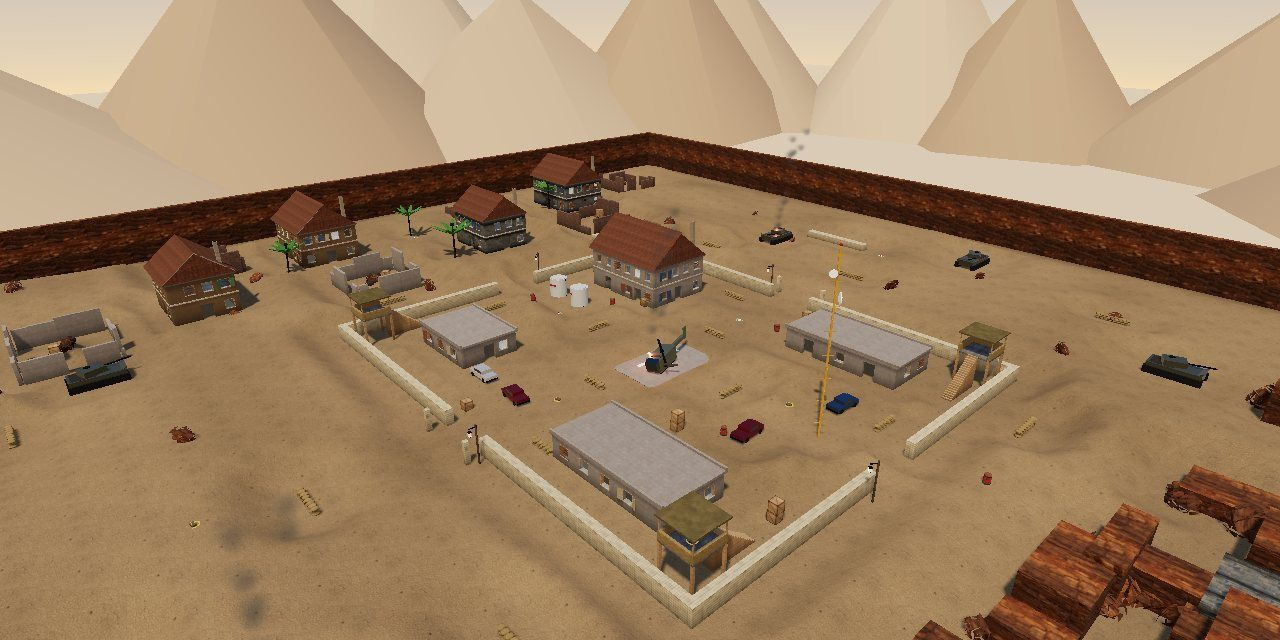
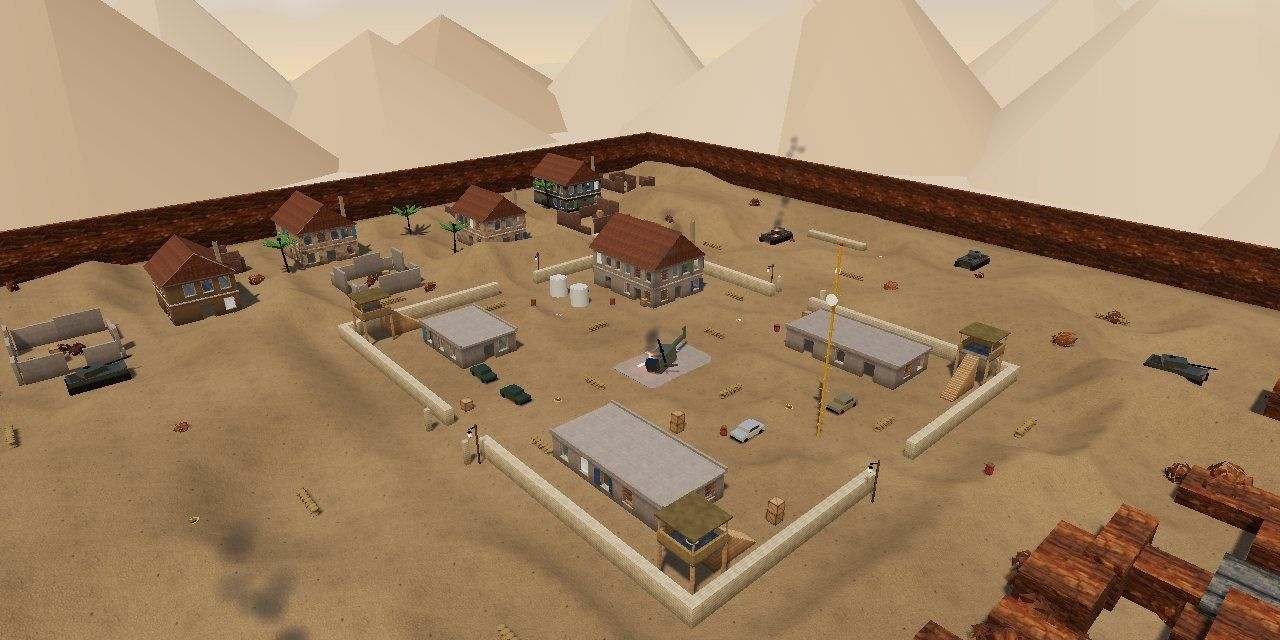
Bigger hills, gentler fall damage, wider stairs, stand-through windows, slower sprint
- Hill height up ~60-70% on every map with longer ramps near buildings
- Fall damage starts ~3.2 m; 7 m costs ~48, ~15 m is lethal (was 118 at 7 m)
- Stairs widened (Bazaar 1.3 -> 1.7 m, houses 1.5 -> 1.8 m, barn 1.9 m)
- Windows 1.95 m tall x 1.5 m: vault through standing
- Sprint 8.6 -> 7.8 m/s
- Bots wander only where they can get back from; nav allows roof hops to 7 m
- Map postcards re-shot for the new terrain

Claude-Session: https://claude.ai/code/session_016tiaBKXEoAVGUpszsHYEEG

diff --git a/fps/game.js b/fps/game.js
@@ -1136,7 +1136,7 @@ function wallZ2(L, z0, z1, x, th, y0, h, ops, m) {
   }
   if (cur < z1) L.box(x - th / 2, y0, cur, x + th / 2, y0 + h, z1, m);
 }
-const D2 = c => ({ c, w: 1.8, y0: 0, y1: 2.5 }), W2 = c => ({ c, w: 1.4, y0: 0.95, y1: 2.4 }); // windows: 1.45 m tall, sill at hip height, so you can vault through crouched
+const D2 = c => ({ c, w: 1.8, y0: 0, y1: 2.5 }), W2 = c => ({ c, w: 1.5, y0: 0.8, y1: 2.75 }); // windows: 1.95 m tall, sill at hip height: vault straight through standing
 // a real window in a wall opening: wooden frame + a fill chosen from the position (same on every client)
 function winOpening(L, ax, a, b, c, th, y0, y1, o) {
   if (o.open || y1 - y0 < 0.5) return;
@@ -1148,7 +1148,7 @@ function winOpening(L, ax, a, b, c, th, y0, y1, o) {
 }
 // two-storey house: doors {n,s,e,w: [centers]}, interior stair along the north wall, upper-floor windows on every side, pitched roof
 function house2(L, x0, z0, w, d, o = {}) {
-  const fh = 3.4, th = 0.4, x1 = x0 + w, z1 = z0 + d, m = o.m || 'tudor', run = clamp(w - 3.4, 3.8, 5.6), sw = 1.5;
+  const fh = 3.4, th = 0.4, x1 = x0 + w, z1 = z0 + d, m = o.m || 'tudor', run = clamp(w - 3.4, 3.8, 5.6), sw = 1.8;
   const dr = o.doors || {}, wn = (a, b) => { const r = []; for (let c = a + 1.6; c < b - 1.2; c += 2.6) r.push(W2(c)); return r; };
   const stx0 = x0 + th + 1.1 - 0.9, stx1 = x0 + th + 1.1 + run + 0.9; // no ground-floor window on the north wall where the stair runs behind it
   const gOps = (side, a, b) => (dr[side] || []).map(D2).concat(o.gwin === false ? [] : wn(a, b).filter(wo => !(dr[side] || []).some(dc => Math.abs(dc - wo.c) < 2) && !(side === 'n' && wo.c > stx0 && wo.c < stx1)));
@@ -1191,7 +1191,7 @@ function stairTower(L, x0, z0, s, m) {
 
 // ---------------------------------------------------------------- MAP 4: MILLBROOK VILLAGE (large, three lanes, river)
 function buildMillbrook(L) {
-  L.hills = 2.6; L.hillScale = 30; L.hillMask = (x, z) => smooth(6, 12, Math.abs(x));
+  L.hills = 4.4; L.hillScale = 34; L.hillRamp = 10; L.hillMask = (x, z) => smooth(6, 12, Math.abs(x));
   L.bounds = [-64, -48, 64, 48]; L.ground = 'grassMud'; L.groundScale = 7; L.grass = 0.9; L.flowers = 2; L.padStyle = 'mushroom'; L.big = true;
   L.groundY = (x, z) => { const a = Math.abs(x); return a < 2.8 ? -0.9 : a < 4.2 ? lerp(-0.9, 0, (a - 2.8) / 1.4) : 0; };
   L.box(-68, -1, -52, -4, 0, 52, 'floor').noRender = true; L.box(4, -1, -52, 68, 0, 52, 'floor').noRender = true;
@@ -1239,7 +1239,7 @@ function buildMillbrook(L) {
   wallZ2(L, bz0 + 0.5, bz0 + bd - 0.5, bx0 + 0.25, 0.5, 0, bh, [{ c: bz0 + bd / 2, w: 4.5, y0: 0, y1: 4.2 }, { c: bz0 + bd / 2, w: 2, y0: 5.4, y1: 7.2 }], 'planks');
   wallZ2(L, bz0 + 0.5, bz0 + bd - 0.5, bx0 + bw - 0.25, 0.5, 0, bh, [{ c: bz0 + bd / 2, w: 4.5, y0: 0, y1: 4.2 }], 'planks');
   L.box(bx0 + 0.5, 4.2, bz0 + 0.5, bx0 + 7, 4.45, bz0 + bd - 0.5, 'planks');               // hayloft (west half)
-  L.stairs(bx0 + 12.5, bz0 + 1.4, 'nx', 1.6, 0, 4.45, 5.5, 'planks');
+  L.stairs(bx0 + 12.5, bz0 + 1.5, 'nx', 1.9, 0, 4.45, 5.5, 'planks');
   L.box(bx0 + 7.0, 4.45, bz0 + 2.4, bx0 + 7.1, 5.4, bz0 + bd - 0.5, 'planks', { col: false });
   L.box(bx0 - 0.3, bh, bz0 - 0.3, bx0 + bw + 0.3, bh + 0.2, bz0 + bd + 0.3, 'roof');
   L.prop('gable', bx0 + bw / 2, bh + 0.2, bz0 + bd / 2, 1, { w: bw + 0.6, d: bd + 0.6, h: 5.5, oh: 0.4, axis: 'x', mat: 'tiles' });
@@ -1281,7 +1281,7 @@ function doorway(L, x0, x1, z, gap0, gap1, h = 5.5, m = 'plasterB', th = 0.7) { 
 function crates(L, x, z, n = 1, big = false) { const s = big ? 1.6 : 1.2; L.B(x, z, s, s, s, 0, 'crate'); if (n > 1) L.B(x + 0.05, z - 0.05, s, s, s, s, 'crate'); }
 function buildOldQuarter(L) {
   L.postcard = { hk: 0.36, dk: 1.15 };
-  L.hills = 1.0; L.hillScale = 18; L.hillFlat = 1.0; L.hillRamp = 5;
+  L.hills = 1.8; L.hillScale = 22; L.hillFlat = 1.0; L.hillRamp = 7.5;
   L.bounds = [-52, -46, 52, 46]; L.ground = 'cobble'; L.groundScale = 3.2; L.groundTint = 0xf0dcbc; L.grass = 0.05; L.big = true; L.padStyle = 'rune';
   L.box(-56, -1, -50, 56, 0, 50, 'floor').noRender = true;
   L.box(-53, 0, -47, 53, 9, -46, 'plasterB'); L.box(-53, 0, 46, 53, 9, 47, 'plasterB'); L.box(-53, 0, -46, -52, 9, 46, 'plasterB'); L.box(52, 0, -46, 53, 9, 46, 'plasterB');
@@ -1392,7 +1392,7 @@ function cityBlock(L, x0, z0, x1, z1, R) {
   if (alleyX && alleyZ) { crates(L, mx, mz + 0.6); L.prop('keg', mx + 0.8, 0, mz - 0.8); }
 }
 function buildCrossroads(L) {
-  L.hills = 1.5; L.hillScale = 24;
+  L.hills = 2.6; L.hillScale = 28; L.hillRamp = 9;
   const R = seeded(1337);
   L.bounds = [-96, -80, 96, 80]; L.ground = 'asphalt'; L.groundScale = 6; L.groundTint = 0xd8d6d0; L.grass = 0; L.big = true; L.padStyle = 'rune'; L.smoke = L.smoke || []; L.noLamps = true;
   L.box(-100, -1, -84, 100, 0, 84, 'floor').noRender = true;
@@ -1449,7 +1449,7 @@ function watchtower(L, cx, cz, dir, y = 4.5) { // stilted tower with sandbag par
   if (dir !== 'nx') L.box(cx - s, y, cz - s, cx - s + e, y + ph, cz + s, 'sandbag'); if (dir !== 'px') L.box(cx + s - e, y, cz - s, cx + s, y + ph, cz + s, 'sandbag');
   L.box(cx - s - 0.2, y + 2.6, cz - s - 0.2, cx + s + 0.2, y + 2.8, cz + s + 0.2, 'canvas', { col: false });
   for (const [dx, dz] of [[-1, -1], [1, -1], [-1, 1], [1, 1]]) L.box(cx + dx * (s - 0.1) - 0.06, y, cz + dz * (s - 0.1) - 0.06, cx + dx * (s - 0.1) + 0.06, y + 2.6, cz + dz * (s - 0.1) + 0.06, 'wood', { col: false });
-  const run = y / 0.34 * 0.45, sw = 1.3;
+  const run = y / 0.34 * 0.45, sw = 1.7;
   if (dir === 'pz') L.stairs(cx, cz + s + run, 'nz', sw, 0, y, run, 'wood');
   else if (dir === 'nz') L.stairs(cx, cz - s - run, 'pz', sw, 0, y, run, 'wood');
   else if (dir === 'px') L.stairs(cx + s + run, cz, 'nx', sw, 0, y, run, 'wood');
@@ -1457,7 +1457,7 @@ function watchtower(L, cx, cz, dir, y = 4.5) { // stilted tower with sandbag par
 }
 function bunker(L, x0, z0, w, d, doors, m = 'concrete') { // single-storey building with interior; doors {n,s,e,w:[centres]}, flat roof
   const h = 3.2, th = 0.4, x1 = x0 + w, z1 = z0 + d, ops = side => (doors[side] || []).map(D2).concat([]);
-  const wins = (a, b, side) => { const r = []; for (let c = a + 2.2; c < b - 1.6; c += 3.6) if (!(doors[side] || []).some(dc => Math.abs(dc - c) < 2.3)) r.push({ c, w: 1.4, y0: 1.0, y1: 2.4 }); return r; };
+  const wins = (a, b, side) => { const r = []; for (let c = a + 2.2; c < b - 1.6; c += 3.6) if (!(doors[side] || []).some(dc => Math.abs(dc - c) < 2.3)) r.push({ c, w: 1.5, y0: 0.85, y1: 2.85 }); return r; };
   wallX2(L, x0, x1, z1 - th / 2, th, 0, h, ops('n').concat(wins(x0, x1, 'n')), m); wallX2(L, x0, x1, z0 + th / 2, th, 0, h, ops('s').concat(wins(x0, x1, 's')), m);
   wallZ2(L, z0 + th, z1 - th, x1 - th / 2, th, 0, h, ops('e').concat(wins(z0, z1, 'e')), m); wallZ2(L, z0 + th, z1 - th, x0 + th / 2, th, 0, h, ops('w').concat(wins(z0, z1, 'w')), m);
   L.box(x0 - 0.25, h, z0 - 0.25, x1 + 0.25, h + 0.3, z1 + 0.25, m);
@@ -1484,7 +1484,7 @@ function warehouse(L, x0, z0, w, d, o = {}) { // big shed: corrugated walls, rol
 // ---------------------------------------------------------------- MAP: FREIGHT YARD (CoD-style container port, medium)
 function buildFreight(L) {
   L.postcard = { sx: -1, sz: 1, hk: 0.14, dk: 0.85 };
-  L.hills = 1.3; L.hillScale = 22;
+  L.hills = 2.1; L.hillScale = 26; L.hillRamp = 9;
   const R = seeded(77);
   L.bounds = [-64, -50, 64, 50]; L.ground = 'asphalt'; L.groundScale = 6; L.groundTint = 0xc8c4bc; L.grass = 0; L.big = true; L.noLamps = true;
   L.box(-68, -1, -54, 68, 0, 54, 'floor').noRender = true;
@@ -1527,7 +1527,7 @@ function buildFreight(L) {
 }
 // ---------------------------------------------------------------- MAP: FIREBASE (Battlefield-style desert outpost, huge)
 function buildFirebase(L) {
-  L.hills = 3.2; L.hillScale = 32;
+  L.hills = 5.5; L.hillScale = 38; L.hillRamp = 11;
   const R = seeded(4242);
   L.bounds = [-100, -90, 100, 90]; L.ground = 'sand'; L.groundScale = 5; L.groundTint = 0xf2e2c4; L.grass = 0; L.big = true; L.noLamps = true; L.smoke = [];
   L.box(-104, -1, -94, 104, 0, 94, 'floor').noRender = true;
@@ -1601,7 +1601,7 @@ function facade(L, R, x0, z0, x1, z1, h, side) {
   if (R() < 0.5) { const c = R() < 0.5 ? a0 + 0.15 : a1 - 0.15; B(c - 0.05, c + 0.05, 0, h, 0, 0.1, 'metal'); } // drainpipe
 }
 function buildBazaar(L) {
-  L.hills = 1.7; L.hillScale = 20; L.hillFlat = 1.0; L.hillRamp = 5;
+  L.hills = 2.7; L.hillScale = 24; L.hillFlat = 1.0; L.hillRamp = 7.5;
   const R = seeded(9001);
   L.bounds = [-70, -54, 70, 54]; L.ground = 'dirtroad'; L.groundScale = 4; L.groundTint = 0xf0e6d8; L.grass = 0; L.big = true; L.noLamps = true; L.smoke = [];
   L.box(-74, -1, -58, 74, 0, 58, 'floor').noRender = true;
@@ -1654,18 +1654,18 @@ function buildBazaar(L) {
   const Hh = (i, j) => (i < 0 || j < 0 || i >= nx || j >= nz ? 0 : H[j * nx + i]);
   for (let j = 0; j < nz; j++) for (let i = 0; i < nx; i++) { // rooftop stairs: climb from a roof onto the next storey up
     const h = Hh(i, j); if (h <= 0 || h > 7 || rstairs >= 34 || R() > 0.45) continue; const [x0, z0, x1, z1] = cellB(i, j), y = h + 0.12;
-    if (Math.abs(Hh(i + 1, j) - h - 3.2) < 0.1) { const nb = L.boxes.length; L.stairs(x0 + 0.3, (z0 + z1) / 2, 'px', 1.3, y, y + 3.2, 3.6, 'concrete'); busy.add(i + ',' + j); rstairs++; rlinks.push([i, j, i + (1), j + (0), L.boxes.slice(nb), L.links[L.links.length - 1]]); }
-    else if (Math.abs(Hh(i, j + 1) - h - 3.2) < 0.1) { const nb = L.boxes.length; L.stairs((x0 + x1) / 2, z0 + 0.3, 'pz', 1.3, y, y + 3.2, 3.6, 'concrete'); busy.add(i + ',' + j); rstairs++; rlinks.push([i, j, i + (0), j + (1), L.boxes.slice(nb), L.links[L.links.length - 1]]); }
-    else if (Math.abs(Hh(i - 1, j) - h - 3.2) < 0.1) { const nb = L.boxes.length; L.stairs(x1 - 0.3, (z0 + z1) / 2, 'nx', 1.3, y, y + 3.2, 3.6, 'concrete'); busy.add(i + ',' + j); rstairs++; rlinks.push([i, j, i + (-1), j + (0), L.boxes.slice(nb), L.links[L.links.length - 1]]); }
-    else if (Math.abs(Hh(i, j - 1) - h - 3.2) < 0.1) { const nb = L.boxes.length; L.stairs((x0 + x1) / 2, z1 - 0.3, 'nz', 1.3, y, y + 3.2, 3.6, 'concrete'); busy.add(i + ',' + j); rstairs++; rlinks.push([i, j, i + (0), j + (-1), L.boxes.slice(nb), L.links[L.links.length - 1]]); }
+    if (Math.abs(Hh(i + 1, j) - h - 3.2) < 0.1) { const nb = L.boxes.length; L.stairs(x0 + 0.3, (z0 + z1) / 2, 'px', 1.7, y, y + 3.2, 3.6, 'concrete'); busy.add(i + ',' + j); rstairs++; rlinks.push([i, j, i + (1), j + (0), L.boxes.slice(nb), L.links[L.links.length - 1]]); }
+    else if (Math.abs(Hh(i, j + 1) - h - 3.2) < 0.1) { const nb = L.boxes.length; L.stairs((x0 + x1) / 2, z0 + 0.3, 'pz', 1.7, y, y + 3.2, 3.6, 'concrete'); busy.add(i + ',' + j); rstairs++; rlinks.push([i, j, i + (0), j + (1), L.boxes.slice(nb), L.links[L.links.length - 1]]); }
+    else if (Math.abs(Hh(i - 1, j) - h - 3.2) < 0.1) { const nb = L.boxes.length; L.stairs(x1 - 0.3, (z0 + z1) / 2, 'nx', 1.7, y, y + 3.2, 3.6, 'concrete'); busy.add(i + ',' + j); rstairs++; rlinks.push([i, j, i + (-1), j + (0), L.boxes.slice(nb), L.links[L.links.length - 1]]); }
+    else if (Math.abs(Hh(i, j - 1) - h - 3.2) < 0.1) { const nb = L.boxes.length; L.stairs((x0 + x1) / 2, z1 - 0.3, 'nz', 1.7, y, y + 3.2, 3.6, 'concrete'); busy.add(i + ',' + j); rstairs++; rlinks.push([i, j, i + (0), j + (-1), L.boxes.slice(nb), L.links[L.links.length - 1]]); }
   }
   for (let j = 0; j < nz; j++) for (let i = 0; i < nx; i++) {
     const h = H[j * nx + i]; if (h <= 0) continue; const [x0, z0, x1, z1] = cellB(i, j);
     if (h <= 3.3 && stairs < 30 && R() < 0.6) { // street stairs up the side wall onto a single-storey roof
-      if (openIn(i - 1, j) && openIn(i - 2, j)) { L.stairs(x0 - 3.6, z1 - 0.85, 'px', 1.3, 0, h + 0.12, 3.6, 'concrete'); stairs++; busy.add(i + ',' + j); street.add(j * nx + i); continue; }
-      if (openIn(i, j - 1) && openIn(i, j - 2)) { L.stairs(x1 - 0.85, z0 - 3.6, 'pz', 1.3, 0, h + 0.12, 3.6, 'concrete'); stairs++; busy.add(i + ',' + j); street.add(j * nx + i); continue; }
-      if (openIn(i + 1, j) && openIn(i + 2, j)) { L.stairs(x1 + 3.6, z0 + 0.85, 'nx', 1.3, 0, h + 0.12, 3.6, 'concrete'); stairs++; busy.add(i + ',' + j); street.add(j * nx + i); continue; }
-      if (openIn(i, j + 1) && openIn(i, j + 2)) { L.stairs(x0 + 0.85, z1 + 3.6, 'nz', 1.3, 0, h + 0.12, 3.6, 'concrete'); stairs++; busy.add(i + ',' + j); street.add(j * nx + i); continue; }
+      if (openIn(i - 1, j) && openIn(i - 2, j)) { L.stairs(x0 - 3.6, z1 - 1.05, 'px', 1.7, 0, h + 0.12, 3.6, 'concrete'); stairs++; busy.add(i + ',' + j); street.add(j * nx + i); continue; }
+      if (openIn(i, j - 1) && openIn(i, j - 2)) { L.stairs(x1 - 1.05, z0 - 3.6, 'pz', 1.7, 0, h + 0.12, 3.6, 'concrete'); stairs++; busy.add(i + ',' + j); street.add(j * nx + i); continue; }
+      if (openIn(i + 1, j) && openIn(i + 2, j)) { L.stairs(x1 + 3.6, z0 + 1.05, 'nx', 1.7, 0, h + 0.12, 3.6, 'concrete'); stairs++; busy.add(i + ',' + j); street.add(j * nx + i); continue; }
+      if (openIn(i, j + 1) && openIn(i, j + 2)) { L.stairs(x0 + 1.05, z1 + 3.6, 'nz', 1.7, 0, h + 0.12, 3.6, 'concrete'); stairs++; busy.add(i + ',' + j); street.add(j * nx + i); continue; }
     }
     if (!busy.has(i + ',' + j)) { const rr = R(), cx = (x0 + x1) / 2, cz = (z0 + z1) / 2; // rooftop clutter: water tanks, antennas, AC units
       if (rr < 0.14) L.prop('fueltank', cx, h + 0.12, cz, 0.38); else if (rr < 0.24) L.prop('mast', x0 + 0.6, h + 0.12, z0 + 0.6, 0.12); else if (rr < 0.36) L.B(cx, cz, 0.8, 0.6, 0.55, h + 0.12, 'acunit'); }
@@ -1681,10 +1681,10 @@ function buildBazaar(L) {
     for (let j = 0; j < nz && want.size; j++) for (let i = 0; i < nx && want.size; i++) { const k = j * nx + i, h = H[k], root = f(k); if (h <= 0 || h > 9.8 || !want.has(root) || busy.has(i + ',' + j)) continue;
       const [x0, z0, x1, z1] = cellB(i, j), run = (h + 0.12) * 1.12, y = h + 0.12; let ok = false;
       const nc = Math.ceil((run + 0.4) / cs), clear = (di, dj) => { for (let q = 1; q <= nc; q++) if (!openIn(i + di * q, j + dj * q)) return false; return true; };
-      if (clear(-1, 0)) { L.stairs(x0 - run, z1 - 0.85, 'px', 1.3, 0, y, run, 'concrete'); ok = true; }
-      else if (clear(1, 0)) { L.stairs(x1 + run, z0 + 0.85, 'nx', 1.3, 0, y, run, 'concrete'); ok = true; }
-      else if (clear(0, -1)) { L.stairs(x1 - 0.85, z0 - run, 'pz', 1.3, 0, y, run, 'concrete'); ok = true; }
-      else if (clear(0, 1)) { L.stairs(x0 + 0.85, z1 + run, 'nz', 1.3, 0, y, run, 'concrete'); ok = true; }
+      if (clear(-1, 0)) { L.stairs(x0 - run, z1 - 1.05, 'px', 1.7, 0, y, run, 'concrete'); ok = true; }
+      else if (clear(1, 0)) { L.stairs(x1 + run, z0 + 1.05, 'nx', 1.7, 0, y, run, 'concrete'); ok = true; }
+      else if (clear(0, -1)) { L.stairs(x1 - 1.05, z0 - run, 'pz', 1.7, 0, y, run, 'concrete'); ok = true; }
+      else if (clear(0, 1)) { L.stairs(x0 + 1.05, z1 + run, 'nz', 1.7, 0, y, run, 'concrete'); ok = true; }
       if (!ok) continue; want.delete(root); busy.add(i + ',' + j); stairs++;
       // clear any rooftop clutter where the stair lands
       for (let q = L.boxes.length - 1; q >= 0; q--) { const b = L.boxes[q]; if (Math.abs(b.y0 - y) < 0.05 && b.x0 < x1 && b.x1 > x0 && b.z0 < z1 && b.z1 > z0 && !b.stair) L.boxes.splice(q, 1); }
@@ -1924,7 +1924,7 @@ class Nav {
             if (this.blocked(mx, Math.max(h1, h2, hm) + 0.47, mz, R, HT - 0.45)) continue;
             if (diag && (!this.hasNear(i + DI[d], j, h1, h2) || !this.hasNear(i, j + DJ[d], h1, h2))) continue;
             eTo.push(m); eC.push((diag ? 1.414 : 1) * cs + Math.abs(dh) * 0.4);
-          } else if (dh < -0.6 && dh > -4.6 && !diag) { // drop down a ledge (one way)
+          } else if (dh < -0.6 && dh > -7.2 && !diag) { // drop down a ledge (one way; a roof-to-street hop is fine)
             if (this.blocked(cx + DI[d] * cs * 0.9, h1 + 0.47, cz + DJ[d] * cs * 0.9, R, HT - 0.45)) continue;
             if (this.blocked(cx + DI[d] * cs, h2 + 0.47, cz + DJ[d] * cs, R * 0.9, h1 - h2 + HT - 0.6)) continue; // a body must fit all the way down
             { let floor = false; for (let q = cellStart[nk]; q < cellStart[nk + 1]; q++) if (q !== m && this.nodeH[q] > h2 + 0.3 && this.nodeH[q] < h1 + 0.6) floor = true; if (floor) continue; } // something solid between the ledge and the landing
@@ -1975,7 +1975,13 @@ class Nav {
   }
   freeAt(x, y, z) { const k = this.cellIdx(x, z); if (k < 0) return false; for (let m = this.cellStart[k]; m < this.cellStart[k + 1]; m++) if (Math.abs(this.nodeH[m] - y) < 0.6) return true; return false; }
   lineFreeAt(ax, ay, az, bx, by, bz) { const dx = bx - ax, dz = bz - az, n = Math.ceil(Math.hypot(dx, dz) / 0.45); for (let i = 1; i <= n; i++) { const t = i / n; if (!this.freeAt(ax + dx * t, ay + (by - ay) * t, az + dz * t)) return false; } return true; }
-  randomNode() { return this.n ? Math.floor(Math.random() * this.n) : -1; }
+  randomNode() { if (this.safe && this.safe.length) return this.safe[Math.floor(Math.random() * this.safe.length)]; return this.n ? Math.floor(Math.random() * this.n) : -1; }
+  markSafe(sx, sy, sz) { // nodes you can reach from spawn AND get back from: the only places bots wander to
+    const s0 = this.nodeAt(sx, sy, sz, 5); if (s0 < 0) return; const fw = new Uint8Array(this.n), bw = new Uint8Array(this.n), rev = Array.from({ length: this.n }, () => []);
+    for (let n = 0; n < this.n; n++) for (let e = this.eS[n]; e < this.eS[n + 1]; e++) rev[this.eTo[e]].push(n);
+    let st = [s0]; fw[s0] = 1; while (st.length) { const n = st.pop(); for (let e = this.eS[n]; e < this.eS[n + 1]; e++) { const q = this.eTo[e]; if (!fw[q]) { fw[q] = 1; st.push(q); } } }
+    st = [s0]; bw[s0] = 1; while (st.length) { const n = st.pop(); for (const q of rev[n]) if (!bw[q]) { bw[q] = 1; st.push(q); } }
+    const out = []; for (let n = 0; n < this.n; n++) if (fw[n] && bw[n]) out.push(n); this.safe = Int32Array.from(out); }
   // ---- ground-layer API kept for spawns and scenery
   free(x, z) { const k = this.cellIdx(x, z); return k >= 0 && !this.blk[k]; }
   center(k) { return [this.x0 + ((k % this.W) + 0.5) * this.cs, this.z0 + (Math.floor(k / this.W) + 0.5) * this.cs]; }
@@ -3620,6 +3626,7 @@ function loadMap(i) {
       for (let q = L.boxes.length - 1; q >= 0; q--) if (db.has(L.boxes[q])) L.boxes.splice(q, 1); for (let q = L.links.length - 1; q >= 0; q--) if (dl.has(L.links[q])) L.links.splice(q, 1);
       world.boxes = L.boxes; world.nav = new Nav(L.boxes, L.bounds, L.links); L.rstairs = L.rstairs.filter(r => !dl.has(r.link)); } else break;
   }
+  world.nav.markSafe(L.spawn.x, L.spawn.y, L.spawn.z);
   buildLevelMeshes(L, th, world.group);
   world.anim = {}; buildScenery(L, th, world.group); buildEnvironment(L, th, world.group, world.anim);
   for (const pk of L.pickups) if (!world.nav.freeAt(pk[1], pk[2], pk[3]) && !world.nav.freeAt(pk[1], TH(pk[1], pk[3]), pk[3])) { const k = world.nav.nearestFree(pk[1], pk[3], 5); if (k >= 0) { const [cx, cz] = world.nav.center(k); pk[1] = cx; pk[2] = TH(cx, cz); pk[3] = cz; } }
@@ -4187,7 +4194,7 @@ function updatePlayer(dt) {
   else if (P.crouch > 0) { if (!anyOverlap(P.pos.x, P.pos.y, P.pos.z, P.r, 1.75)) P.crouch = Math.max(0, P.crouch - dt * 7); }
   P.h = lerp(1.75, 1.1, P.crouch);
   // move
-  let max = (P.crouch > 0.5 ? 3.0 : P.sprinting ? 8.6 : 5.8) * (WEAPONS[wst.cur].speedMul || 1);
+  let max = (P.crouch > 0.5 ? 3.0 : P.sprinting ? 7.8 : 5.8) * (WEAPONS[wst.cur].speedMul || 1);
   max *= lerp(1, 0.62, wst.ads) * cls().speed * (P.stimT > 0 ? 1.3 : 1) * (keys.AltLeft && !P.sprinting ? 0.6 : 1); // Alt = slow, quiet walk
   if (P.onGround) {
     const f = P.sliding ? 0.8 : 7.5;
@@ -4217,8 +4224,8 @@ function updatePlayer(dt) {
   }
   const vyBefore = P.vel.y, wasGround = P.onGround;
   moveBody(P, dt);
-  if (!wasGround && P.onGround && vyBefore < -9.6 && !P.mantle && game.time > (P.protT || 0)) { // fall damage (≈2.2 m+), loud and obvious
-    const dmg = Math.round(Math.pow(-vyBefore - 9.6, 1.35) * 5.5 * hpMul()); if (dmg > 0) { damagePlayer(dmg, null, null); sfx.play('fallhurt'); game.shake = Math.min(1.2, game.shake + 0.6); showHint('FALL DAMAGE −' + dmg, '#ff6b5a'); noise(P.pos, 14, PLAYER_T); } }
+  if (!wasGround && P.onGround && vyBefore < -11.5 && !P.mantle && game.time > (P.protT || 0)) { // fall damage (≈3.2 m+; 7 m ≈ a third of your health, ~15 m deadly), loud and obvious
+    const dmg = Math.round(Math.pow(-vyBefore - 11.5, 1.3) * 3.4 * hpMul()); if (dmg > 0) { damagePlayer(dmg, null, null); sfx.play('fallhurt'); game.shake = Math.min(1.2, game.shake + 0.6); showHint('FALL DAMAGE −' + dmg, '#ff6b5a'); noise(P.pos, 14, PLAYER_T); } }
   if (!wasGround && P.onGround && vyBefore < -5) { P.landKick = Math.min(-vyBefore * 0.008, 0.12); sfx.play('land', { vol: clamp(-vyBefore / 14, 0.3, 1) }); sfx.step(surfaceAt(P.pos.x, P.pos.y, P.pos.z), { vol: clamp(-vyBefore / 12, 0.3, 1), gait: 'sprint', near: true }); if (-vyBefore > 6) noise(P.pos, 12, PLAYER_T); }
   if (P.pos.y < -15) { const s = world.L.spawn; P.pos.set(s.x, s.y + 0.1, s.z); P.vel.set(0, 0, 0); }
   // footsteps
@@ -5149,7 +5156,7 @@ function captureMapThumb() {
   try { const c = document.createElement('canvas'); const src = renderer.domElement, W = Math.min(1280, src.width), H = Math.round(W * src.height / src.width); c.width = W; c.height = H; const g = c.getContext('2d'); g.imageSmoothingQuality = 'high'; g.drawImage(src, 0, 0, W, H); const url = c.toDataURL('image/jpeg', 0.8); // big enough to fill the loading screen sharply
     const key = 'bp_mthumb2_' + world.def.name; try { for (const m of MAPS) localStorage.removeItem('bp_mthumb_' + m.name); localStorage.setItem(key, url); } catch (e) {} applyMapThumbs(); } catch (e) {}
 }
-const MAPIMG = i => `thumbs/${i}.jpg?v=1`; // baked aerial postcards (see postcard())
+const MAPIMG = i => `thumbs/${i}.jpg?v=2`; // baked aerial postcards (see postcard())
 function applyMapThumbs() { MAPS.forEach((m, i) => { const u = MAPIMG(i); const card = $('maps').children[i]; if (card && u) { card.style.backgroundImage = `linear-gradient(180deg,rgba(12,14,19,0) 25%,rgba(12,14,19,.55) 60%,rgba(12,14,19,.9)),url(${u})`; card.style.backgroundSize = 'cover'; card.style.backgroundPosition = 'center 68%'; } }); }
 
 // ============================================================ GAMEPAD (Xbox / PlayStation via the Gamepad API)

diff --git a/fps/index.html b/fps/index.html
@@ -490,7 +490,7 @@ img.thumb.tall{height:110px;object-fit:cover}
 
 <script src="three.min.js"></script>
 <script src="peerjs.min.js?v=1.5.4"></script>
-<script src="game.js?v=202611210300"></script>
+<script src="game.js?v=202611210500"></script>
 <script type="module" src="lib/assets.js?v=202611182330"></script>
 <script type="module" src="lib/post.js?v=202611182330"></script>
 </body>
